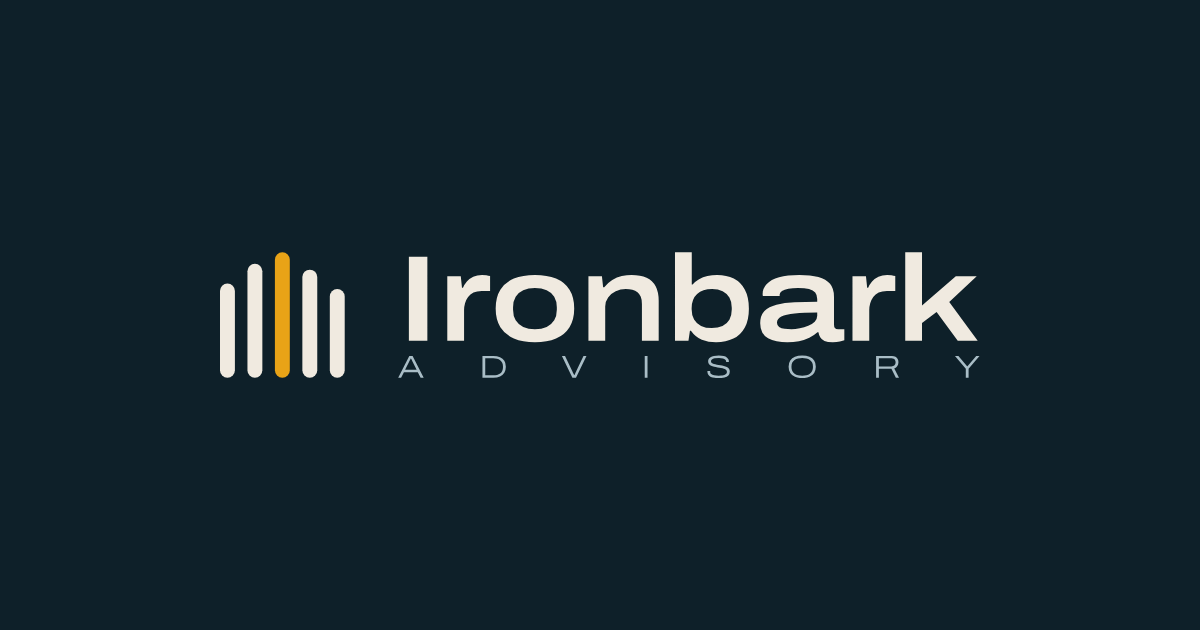
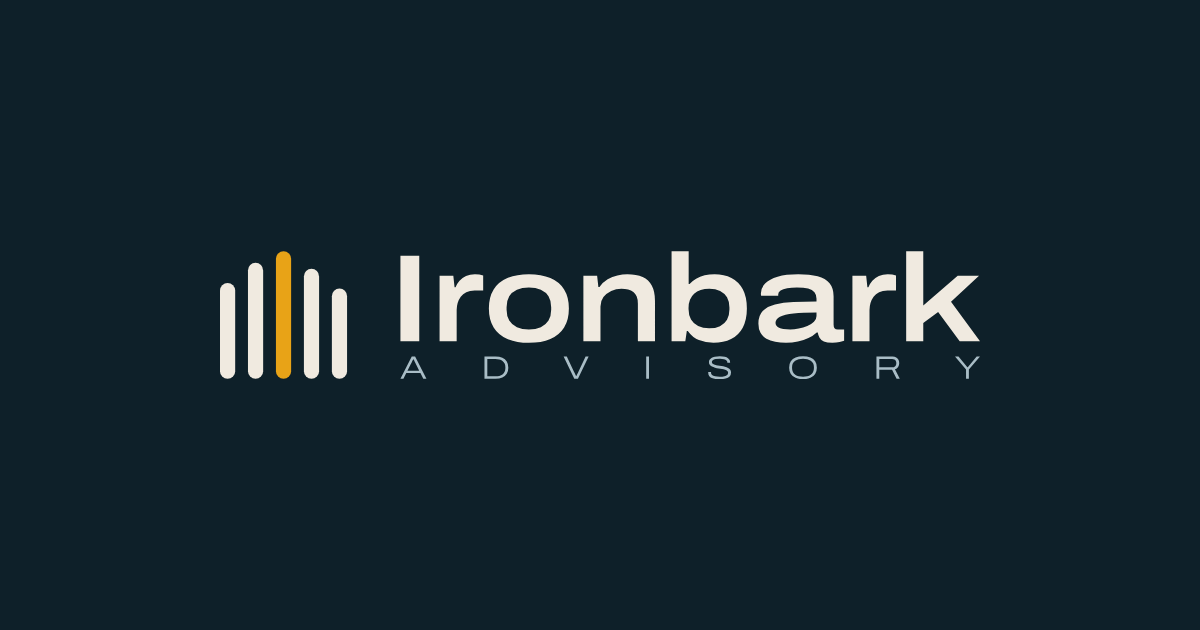
Align the wordmark on its ink rather than its origins
"Advisory" sat flush with "Ironbark" by the left edge of its layout box,
which is not where the letters actually start. A capital I carries a
97/1000 em left side bearing because a lone vertical stem needs the air
around it; A carries 35, because its diagonal already reaches the edge
of the glyph. Aligning the boxes therefore hung the A about 9% of the
name's font-size out past the I - visible, and wrong.

Both words are now fitted and aligned on their ink, so the A sits under
the I and the Y under the k. Regenerated the stacked lockups and the
og:image from the corrected geometry.

In the masthead the same reasoning applies twice more:

- align-items goes from center to baseline. The mark spans ascender to
  baseline, so its bottom edge belongs on the text baseline; centring
  the boxes floated "Advisory" off the line "Ironbark" sits on.
- negative margins pull each word back by its own left side bearing, so
  the flex gap is the gap you see rather than the gap plus a bearing.

diff --git a/404.html b/404.html
@@ -79,7 +79,15 @@ h2.sec{font-size:clamp(1.55rem,3.1vw,2.6rem);margin-top:.55rem}
   .masthead{background:rgba(246,241,233,.86)}
   .masthead.on-dark{background:rgba(12,28,36,.86)}
 }
-.brand{display:flex;align-items:center;gap:.62em;text-decoration:none;color:var(--ink);white-space:nowrap;font-size:1.18rem;transition:color .45s ease}
+/* align-items:baseline, not center. The mark spans ascender to baseline, so
+   its bottom edge belongs ON the text baseline - centring the boxes instead
+   floats "Advisory" off the line "Ironbark" sits on. */
+.brand{display:flex;align-items:baseline;gap:.62em;text-decoration:none;color:var(--ink);white-space:nowrap;font-size:1.18rem;transition:color .45s ease}
+/* Side bearings belong to the glyph, not to the gap. A capital I carries a
+   .097em left bearing (a lone stem needs the air); A carries .035em. Left
+   uncorrected the flex gap puts each word further right than it looks. */
+.brand b{margin-left:-.097em}
+.brand i{margin-left:-.069em}
 .brand i{transition:color .45s ease}
 /* The mark's viewBox is cropped to its ink, so height set is height drawn.
    .724em is Archivo's ascender: the mark spans the top of the b and k down

diff --git a/about.html b/about.html
@@ -79,7 +79,15 @@ h2.sec{font-size:clamp(1.55rem,3.1vw,2.6rem);margin-top:.55rem}
   .masthead{background:rgba(246,241,233,.86)}
   .masthead.on-dark{background:rgba(12,28,36,.86)}
 }
-.brand{display:flex;align-items:center;gap:.62em;text-decoration:none;color:var(--ink);white-space:nowrap;font-size:1.18rem;transition:color .45s ease}
+/* align-items:baseline, not center. The mark spans ascender to baseline, so
+   its bottom edge belongs ON the text baseline - centring the boxes instead
+   floats "Advisory" off the line "Ironbark" sits on. */
+.brand{display:flex;align-items:baseline;gap:.62em;text-decoration:none;color:var(--ink);white-space:nowrap;font-size:1.18rem;transition:color .45s ease}
+/* Side bearings belong to the glyph, not to the gap. A capital I carries a
+   .097em left bearing (a lone stem needs the air); A carries .035em. Left
+   uncorrected the flex gap puts each word further right than it looks. */
+.brand b{margin-left:-.097em}
+.brand i{margin-left:-.069em}
 .brand i{transition:color .45s ease}
 /* The mark's viewBox is cropped to its ink, so height set is height drawn.
    .724em is Archivo's ascender: the mark spans the top of the b and k down

diff --git a/contact.html b/contact.html
@@ -79,7 +79,15 @@ h2.sec{font-size:clamp(1.55rem,3.1vw,2.6rem);margin-top:.55rem}
   .masthead{background:rgba(246,241,233,.86)}
   .masthead.on-dark{background:rgba(12,28,36,.86)}
 }
-.brand{display:flex;align-items:center;gap:.62em;text-decoration:none;color:var(--ink);white-space:nowrap;font-size:1.18rem;transition:color .45s ease}
+/* align-items:baseline, not center. The mark spans ascender to baseline, so
+   its bottom edge belongs ON the text baseline - centring the boxes instead
+   floats "Advisory" off the line "Ironbark" sits on. */
+.brand{display:flex;align-items:baseline;gap:.62em;text-decoration:none;color:var(--ink);white-space:nowrap;font-size:1.18rem;transition:color .45s ease}
+/* Side bearings belong to the glyph, not to the gap. A capital I carries a
+   .097em left bearing (a lone stem needs the air); A carries .035em. Left
+   uncorrected the flex gap puts each word further right than it looks. */
+.brand b{margin-left:-.097em}
+.brand i{margin-left:-.069em}
 .brand i{transition:color .45s ease}
 /* The mark's viewBox is cropped to its ink, so height set is height drawn.
    .724em is Archivo's ascender: the mark spans the top of the b and k down

diff --git a/index.html b/index.html
@@ -79,7 +79,15 @@ h2.sec{font-size:clamp(1.55rem,3.1vw,2.6rem);margin-top:.55rem}
   .masthead{background:rgba(246,241,233,.86)}
   .masthead.on-dark{background:rgba(12,28,36,.86)}
 }
-.brand{display:flex;align-items:center;gap:.62em;text-decoration:none;color:var(--ink);white-space:nowrap;font-size:1.18rem;transition:color .45s ease}
+/* align-items:baseline, not center. The mark spans ascender to baseline, so
+   its bottom edge belongs ON the text baseline - centring the boxes instead
+   floats "Advisory" off the line "Ironbark" sits on. */
+.brand{display:flex;align-items:baseline;gap:.62em;text-decoration:none;color:var(--ink);white-space:nowrap;font-size:1.18rem;transition:color .45s ease}
+/* Side bearings belong to the glyph, not to the gap. A capital I carries a
+   .097em left bearing (a lone stem needs the air); A carries .035em. Left
+   uncorrected the flex gap puts each word further right than it looks. */
+.brand b{margin-left:-.097em}
+.brand i{margin-left:-.069em}
 .brand i{transition:color .45s ease}
 /* The mark's viewBox is cropped to its ink, so height set is height drawn.
    .724em is Archivo's ascender: the mark spans the top of the b and k down

diff --git a/institutions.html b/institutions.html
@@ -79,7 +79,15 @@ h2.sec{font-size:clamp(1.55rem,3.1vw,2.6rem);margin-top:.55rem}
   .masthead{background:rgba(246,241,233,.86)}
   .masthead.on-dark{background:rgba(12,28,36,.86)}
 }
-.brand{display:flex;align-items:center;gap:.62em;text-decoration:none;color:var(--ink);white-space:nowrap;font-size:1.18rem;transition:color .45s ease}
+/* align-items:baseline, not center. The mark spans ascender to baseline, so
+   its bottom edge belongs ON the text baseline - centring the boxes instead
+   floats "Advisory" off the line "Ironbark" sits on. */
+.brand{display:flex;align-items:baseline;gap:.62em;text-decoration:none;color:var(--ink);white-space:nowrap;font-size:1.18rem;transition:color .45s ease}
+/* Side bearings belong to the glyph, not to the gap. A capital I carries a
+   .097em left bearing (a lone stem needs the air); A carries .035em. Left
+   uncorrected the flex gap puts each word further right than it looks. */
+.brand b{margin-left:-.097em}
+.brand i{margin-left:-.069em}
 .brand i{transition:color .45s ease}
 /* The mark's viewBox is cropped to its ink, so height set is height drawn.
    .724em is Archivo's ascender: the mark spans the top of the b and k down

diff --git a/students-families.html b/students-families.html
@@ -79,7 +79,15 @@ h2.sec{font-size:clamp(1.55rem,3.1vw,2.6rem);margin-top:.55rem}
   .masthead{background:rgba(246,241,233,.86)}
   .masthead.on-dark{background:rgba(12,28,36,.86)}
 }
-.brand{display:flex;align-items:center;gap:.62em;text-decoration:none;color:var(--ink);white-space:nowrap;font-size:1.18rem;transition:color .45s ease}
+/* align-items:baseline, not center. The mark spans ascender to baseline, so
+   its bottom edge belongs ON the text baseline - centring the boxes instead
+   floats "Advisory" off the line "Ironbark" sits on. */
+.brand{display:flex;align-items:baseline;gap:.62em;text-decoration:none;color:var(--ink);white-space:nowrap;font-size:1.18rem;transition:color .45s ease}
+/* Side bearings belong to the glyph, not to the gap. A capital I carries a
+   .097em left bearing (a lone stem needs the air); A carries .035em. Left
+   uncorrected the flex gap puts each word further right than it looks. */
+.brand b{margin-left:-.097em}
+.brand i{margin-left:-.069em}
 .brand i{transition:color .45s ease}
 /* The mark's viewBox is cropped to its ink, so height set is height drawn.
    .724em is Archivo's ascender: the mark spans the top of the b and k down
